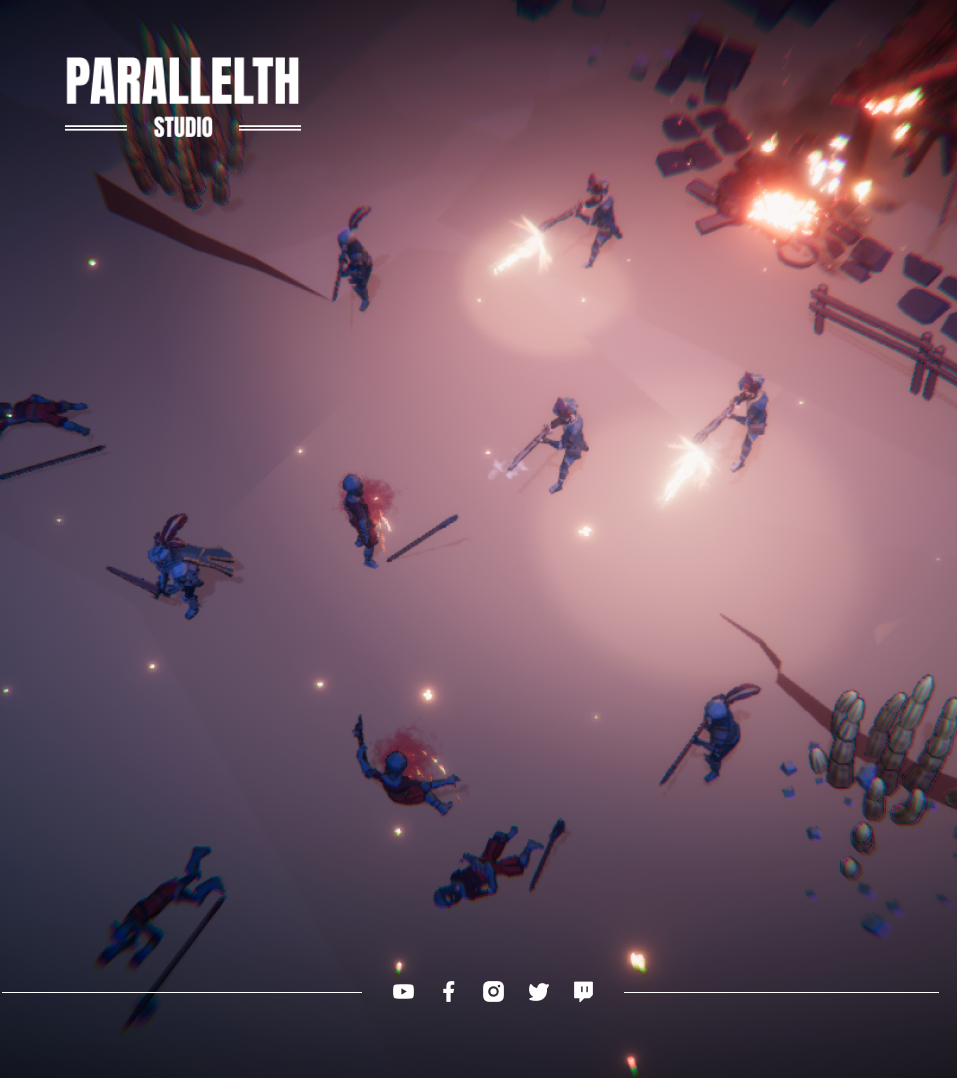
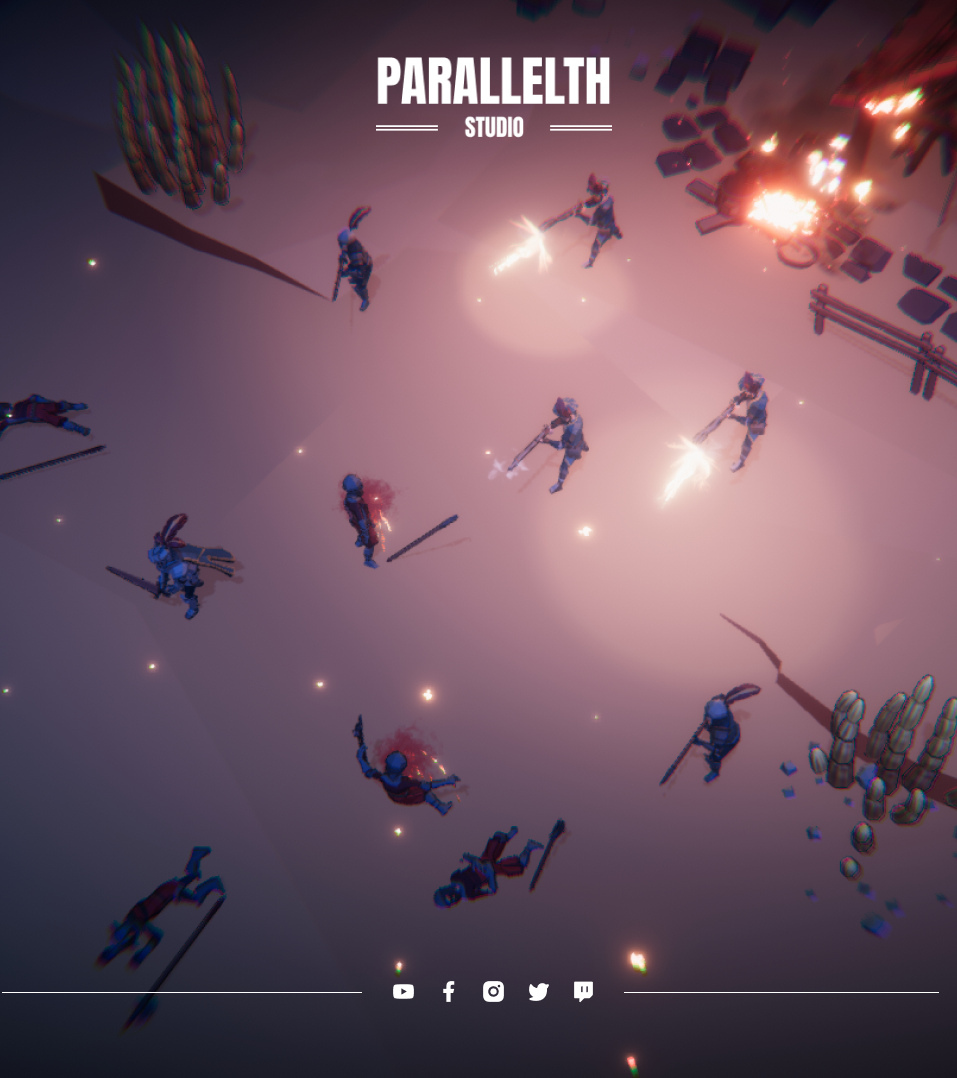
Fixed

Changed region(s): [[0.0606, 0.0306, 0.3333, 0.1531], [0.3939, 0.0306, 0.6364, 0.1531]]

diff --git a/pages/index.js b/pages/index.js
@@ -124,7 +124,7 @@ export default function Home() {
                         <Image src={pic1} style={{ width: '100%', height: 'auto' }}></Image>
                       </div>
 
-                      <div className='col d-grid gap-3'>
+                      <div className='d-grid gap-3'>
                         <Image src={pic2} style={{ width: '100%', height: 'auto' }}></Image>
                         <Image src={pic3} style={{ width: '100%', height: 'auto' }}></Image>
                       </div>

diff --git a/styles/main.scss b/styles/main.scss
@@ -528,8 +528,8 @@ border-radius: 10px;
   height: 100vh;
   height: auto;
   min-height:1000px;
-  background: url("../public/assets/image/BF2 no_tool.png");
-  background-position: left;
+  background: url("../public/assets/image/BF2.png");
+  background-position: center;
   background-repeat: no-repeat;
   background-attachment: scroll;
   background-size: cover;
